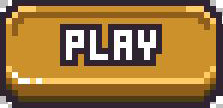
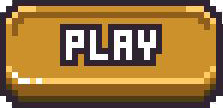
improved the state mechanism

diff --git a/main.py b/main.py
@@ -1,3 +1,4 @@
+from enum import Enum
 import pygame as pg
 import sys
 from settings import *
@@ -9,7 +10,61 @@ from core.screen_shake import ScreenShake
 from core.parallax import ParallaxBackground
 from utils.loader import load_image
 from core.level import Level
-from core.state import MainState
+
+class MainState(Enum):
+    MENU = 'menu'
+    PLAY = 'play'
+    PAUSED = 'paused'
+    QUIT = 'quit'
+
+class Button:
+    def __init__(self, rect:pg.Rect|tuple,image1:pg.Surface,image2:pg.Surface,callback=None):
+        self.rect = pg.Rect(rect)
+        self.image1 = pg.transform.scale(image1,(self.rect.width,self.rect.height)).convert_alpha()
+        self.image2 = pg.transform.scale(image2,(self.rect.width,self.rect.height)).convert_alpha()
+        self.callback = callback
+
+        self.image = self.image1
+        self.hovered = False
+        self.clicked = False
+    def update(self,events,mouse_pos):
+        # call callback function if button state is clicked , bas itna samjho jyada dhyan nhi do code pe
+        if self.callback and self.clicked and pg.mouse.get_pressed()[0] == 0:
+            self.callback()
+            self.clicked = False
+            return
+        # set click state of button to true if clicked and hovered
+        if self.rect.collidepoint(mouse_pos):
+            self.hovered = True
+            self.image = self.image2
+            if pg.mouse.get_pressed()[0] == 1 and not self.clicked:
+                self.clicked = True
+                print("Button clicked!"+str(self.callback))
+                
+        else:
+            # set state to false if not clicked
+            self.clicked = False
+            self.hovered = False
+            self.image = self.image1
+
+
+    def draw(self,screen:pg.Surface):
+        screen.blit(self.image,(self.rect.x,self.rect.y))
+
+class State:
+    def __init__(self,screen:pg.Surface,objects):
+        self.screen = screen
+        self.objects = objects
+    def add_object(self,obj):
+        self.objects.append(obj)
+    def remove_object(self,obj):
+        self.objects.remove(obj)
+    def update(self,events,mouse_pos):
+        for obj in self.objects:
+            obj.update(events,mouse_pos)
+    def draw(self):
+        for obj in self.objects:
+            obj.draw(self.screen)
 
 
 class Game:
@@ -25,28 +80,49 @@ class Game:
         # Initialize states
         self.states = {}
         self.current_state = MainState.MENU
+        self.load_main_menu()
 
-    def hamdle_events(self):
-        events = pg.event.get() # Get events once per frame
-        # 1. Global Event Handling (Quit)
-        for event in events:
+    def set_state(self,state):
+        self.current_state = state
+
+    def load_main_menu(self):
+        self.states[MainState.MENU] = State(self.screen,[])
+
+        self.states[MainState.MENU].add_object(
+            Button(
+                (0,0,300,100),
+                pg.image.load("assets/menu/playbutton_01.png").convert_alpha(),
+                pg.image.load("assets/menu/playbutton_02.png").convert_alpha(),
+                lambda: self.set_state(MainState.PLAY)
+            )
+        )
+    def handle_events(self):
+        self.mouse_pos = pg.mouse.get_pos()
+        self.events = pg.event.get()
+        for event in self.events:
             if event.type == pg.QUIT:
                 self.running = False
+            if event.type == pg.KEYDOWN:
+                if event.key == pg.K_ESCAPE:
+                    self.running = False
 
     def update(self,dt):
-        pass
+        self.states[self.current_state].update(self.events,self.mouse_pos)
+
+
     def draw(self):
         self.screen.fill(self.bg_color)
+        self.states[self.current_state].draw()
+        pg.draw.circle(self.screen,WHITE,self.mouse_pos,5)
         pg.display.flip()
         pass
+
     def run(self):
         while self.running:
-            dt = self.clock.tick(FPS) / 1000
-            self.hamdle_events()
+            dt = self.clock.tick(FPS)/1000
+            self.handle_events()
             self.update(dt)
             self.draw()
-
-
         pg.quit()
         sys.exit()
 
